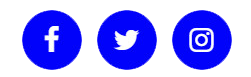
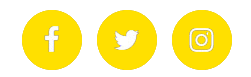
update style for homepage and menu

diff --git a/wp-content/themes/Clixpert_Theme_2.0/style.css b/wp-content/themes/Clixpert_Theme_2.0/style.css
@@ -341,18 +341,18 @@ ul.sub-menu a { font-size: 14px !important; }
 .innerbanner h1 { text-align: center; padding: 113px 0 0; color: #0302fe; }
 
 .innerbanner {
-  background-position: center center;
-  background-repeat: no-repeat;
-  background-size: cover;
-  height: 275px;
-  margin-top: 88px;
+    background-position: center center;
+    background-repeat: no-repeat;
+    background-size: cover;
+    height: 280px;
+    margin-top: 180px;
 }
 
 .innersection a { color: #0102fa; font-size: 20px; }
 
 .innersection a:hover { color: #3b3c40; }
 
-.footHed a { font-size: 24px; color: #000; font-family: 'Montserrat', sans-serif; }
+.footHed a { font-size: 24px; color: #fff; font-family: 'Montserrat', sans-serif; font-weight: bold; }
 
 .socilmedia { margin-top: 30px; }
 
@@ -378,7 +378,7 @@ ul.sub-menu a { font-size: 14px !important; }
 
 .bannerSlider li { position: relative; }
 
-.banhed { font-size: 52px; font-weight: bold; color: #0102fa;text-shadow: 2px 3px 1px rgba(66, 64, 64, 0.5);margin-bottom: 0; }
+.banhed { font-size: 52px; font-weight: bold; color: #6d6e71;margin-bottom: 0; }
 
 .bancptionul { }
 
@@ -421,9 +421,9 @@ ul.sub-menu a { font-size: 14px !important; }
 
 }
 
-.prlx a { background: #0809ea url(images/right-chevron.png) no-repeat 94% -7px; text-align: center; text-decoration: none; color: #fff; font-size: 14px; padding: 11px 36px 11px 16px; border-radius: 0px; text-transform: uppercase; }
+.prlx a { background: #ffe000 url(images/right-chevron.png) no-repeat 94% -7px; text-align: center; text-decoration: none; color: #000; font-size: 14px; padding: 11px 36px 11px 16px; border-radius: 0px; text-transform: uppercase; }
 
-.prlx a:hover { background-color: #188c14; color: #fff; background-position: 94% -7px; }
+.prlx a:hover {  background:  #000000 url("images/right-chevron-white.png") no-repeat scroll 94% -7px; color: #fff; }
 
 .reviewsCls .lSAction > a, .brNds .lSAction > a { background: url(images/arros.png); opacity: 1; width: 15px; }
 
@@ -529,9 +529,13 @@ ul.sub-menu a { font-size: 14px !important; }
 
 .foot { display: inline-block; width: 24%; }
 
-footer { padding: 50px 0; background: #f2f2f2; }
+footer { padding: 50px 0; background: #6d6e71; }
 
-.footHed { font-size: 24px; margin-bottom: 17px; text-transform: uppercase; }
+.footHed {    font-size: 24px;
+    margin-bottom: 17px;
+    font-weight: bold;
+    text-transform: uppercase;
+    color: #fff; }
 
 footer ul { }
 
@@ -553,11 +557,11 @@ footer li { }
 
 .socilmedia li:last-child a { background: url(images/socialmedia.png) no-repeat -168px 0; padding: 25px 35px; }
 
-footer p { font-size: 16px; color: #999; margin-bottom: 0px; }
+footer p { font-size: 16px; color: #fff; margin-bottom: 0px; }
 
-footer span { font-family: 'Open Sans', sans-serif; color: #999 }
+footer span { font-family: 'Open Sans', sans-serif; color: #fff }
 
-footer a { font-family: 'Open Sans', sans-serif; text-decoration: none; font-size: 16px; color: #656464; font-weight: 400; }
+footer a { font-family: 'Open Sans', sans-serif; text-decoration: none; font-size: 16px; color: #fff; font-weight: 400; }
 
 .foot:nth-child(3) p { color: #000; font-weight: 600; }
 
@@ -750,7 +754,7 @@ section.innersection { padding: 60px 0; }
 
 .current_page_item a:hover, .current_page_item li a:hover, .current-menu-item a:hover { color: #000 !important; }
 
-footer .current_page_item a, footer .current-menu-item a { background: none; -webkit-border-radius: 0px; -moz-border-radius: 0px; border-radius: 0px; color: #656464 !important; }
+footer .current_page_item a, footer .current-menu-item a { background: none; -webkit-border-radius: 0px; -moz-border-radius: 0px; border-radius: 0px; color: #fff !important; }
 
 .sitmpee .current_page_item a { color: inherit !important }
 
@@ -1742,7 +1746,7 @@ header .wid,header .wid.wid-menu { width: 100%; margin: 0 auto; padding:0 60px; 
 
 .ftrCopy { padding: 17px 0; background-color: #fff; }
 
-footer a:hover { color: #0302fe !important; }
+footer a:hover { color: #ffe000  !important; }
 
 .innerpage { margin-top: 135px; padding-top: 20px; min-height: 450px; padding-bottom: 40px; }
 
@@ -1766,7 +1770,7 @@ footer a:hover { color: #0302fe !important; }
 
 .aniPos .logoRgt { margin-top: 17px; }
 
-.aniPos .menu li a { font-size: 12px; }
+.aniPos .menu li a { font-size: 14px; }
 
 .blgcont > img { float: left; margin-right: 20px; }
 
@@ -1837,7 +1841,7 @@ footer a:hover { color: #0302fe !important; }
   background-position: 94% -7px;
 }
 .reqQt.innpgQt  a {
-  background: #0809ea url("images/right-chevron.png") no-repeat scroll 94% -7px;
+  background: #ffe000 url("images/right-chevron.png") no-repeat scroll 94% -7px;
   border-radius: 0;
   color: #fff;
   font-size: 14px;
@@ -1847,9 +1851,9 @@ footer a:hover { color: #0302fe !important; }
   text-transform: uppercase;
 }
 .reqQt.homQt  a {
-  background: #0809ea url("images/right-chevron.png") no-repeat scroll 94% -7px;
+  background: #ffe000 url("images/right-chevron.png") no-repeat scroll 94% -7px;
   border-radius: 0;
-  color: #fff;
+  color: #000;
   font-size: 14px;
   padding: 11px 36px 11px 16px;
   text-align: center;
@@ -1857,8 +1861,8 @@ footer a:hover { color: #0302fe !important; }
   text-transform: uppercase;
 }
 .reqQt.homQt a:hover {
-  background-position: 94% -7px;
-  background-color: #188c14; color: #fff;
+    color: #fff;
+    background:  #000000 url("images/right-chevron-white.png") no-repeat scroll 94% -7px;
 }
 .reqQt.homQt {
   bottom: 25px;
@@ -2201,7 +2205,7 @@ font-size: 33px;
 
 	 .innerbanner {
 
-  margin-top: 83px;
+  margin-top: 0px;
 
 }
 
